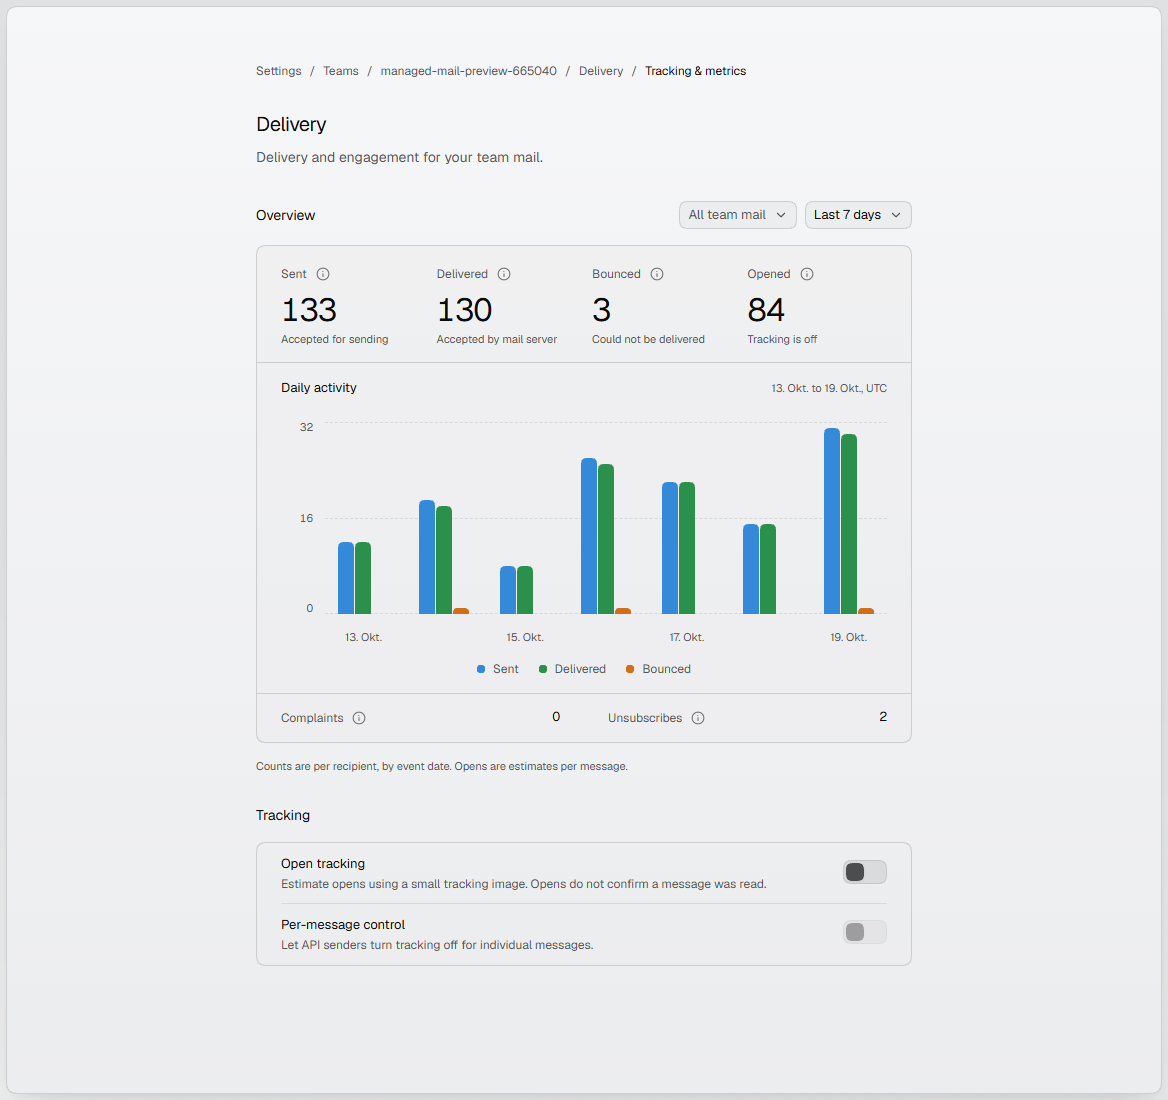
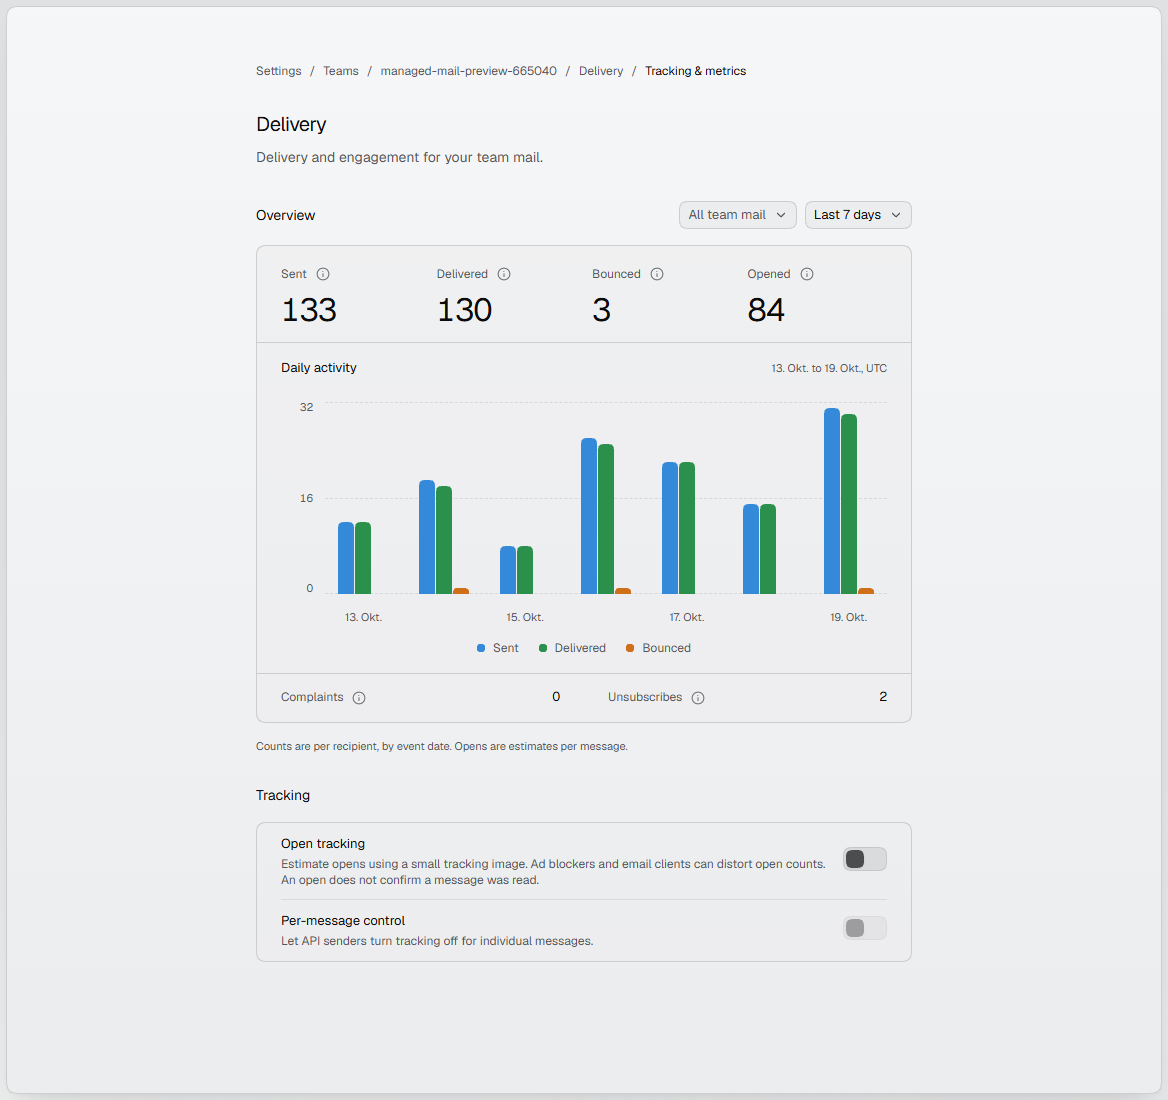
refactor(settings): simplify delivery metric totals

diff --git a/apps/web/src/features/settings/components/organization-settings/mail-delivery-metrics.tsx b/apps/web/src/features/settings/components/organization-settings/mail-delivery-metrics.tsx
@@ -20,12 +20,10 @@ const deliverySeries = [
 
 export const MailDeliveryMetrics = ({
   metrics,
-  openTrackingEnabled,
   range,
   to,
 }: {
   metrics: Awaited<ReturnType<typeof rpc.organization.getMailDeliveryMetrics>>;
-  openTrackingEnabled: boolean | undefined;
   range: MailDeliveryMetricsRange;
   to: Date;
 }) => {
@@ -62,28 +60,21 @@ export const MailDeliveryMetrics = ({
     {
       hint: "Each message counts once per recipient when accepted for sending.",
       label: "Sent",
-      note: "Accepted for sending",
       value: metrics.eventsByType.sent ?? 0,
     },
     {
       hint: "The recipient's mail server accepted the message. This does not confirm it reached their inbox.",
       label: "Delivered",
-      note: "Accepted by mail server",
       value: metrics.eventsByType.delivered ?? 0,
     },
     {
       hint: "Messages with a permanent delivery failure, counted once per recipient.",
       label: "Bounced",
-      note: "Could not be delivered",
       value: metrics.eventsByType.bounced ?? 0,
     },
     {
       hint: "Messages whose tracking image loaded. Privacy tools and bots can inflate or hide opens. An open never proves someone read a message.",
       label: "Opened",
-      note:
-        openTrackingEnabled === false
-          ? "Tracking is off"
-          : "Estimated message opens",
       value: metrics.openedMessages,
     },
   ];
@@ -111,11 +102,8 @@ export const MailDeliveryMetrics = ({
                   <TooltipContent>{stat.hint}</TooltipContent>
                 </Tooltip>
               </dt>
-              <dd className="flex flex-col gap-1.5">
-                <span className="text-title-lg leading-none tracking-tight text-fg tabular-nums">
-                  {stat.value.toLocaleString()}
-                </span>
-                <span className="text-micro text-muted-fg">{stat.note}</span>
+              <dd className="text-title-lg leading-none tracking-tight text-fg tabular-nums">
+                {stat.value.toLocaleString()}
               </dd>
             </div>
           ))}

diff --git a/apps/web/src/features/settings/components/organization-settings/mail-delivery-view.tsx b/apps/web/src/features/settings/components/organization-settings/mail-delivery-view.tsx
@@ -200,12 +200,7 @@ export const MailDeliveryView = ({
     metricsSection = <SettingsLoadingState label="Loading metrics" />;
   } else {
     metricsSection = (
-      <MailDeliveryMetrics
-        metrics={metrics}
-        openTrackingEnabled={trackingSettings?.openTrackingEnabled}
-        range={range}
-        to={metrics.to}
-      />
+      <MailDeliveryMetrics metrics={metrics} range={range} to={metrics.to} />
     );
   }
 
